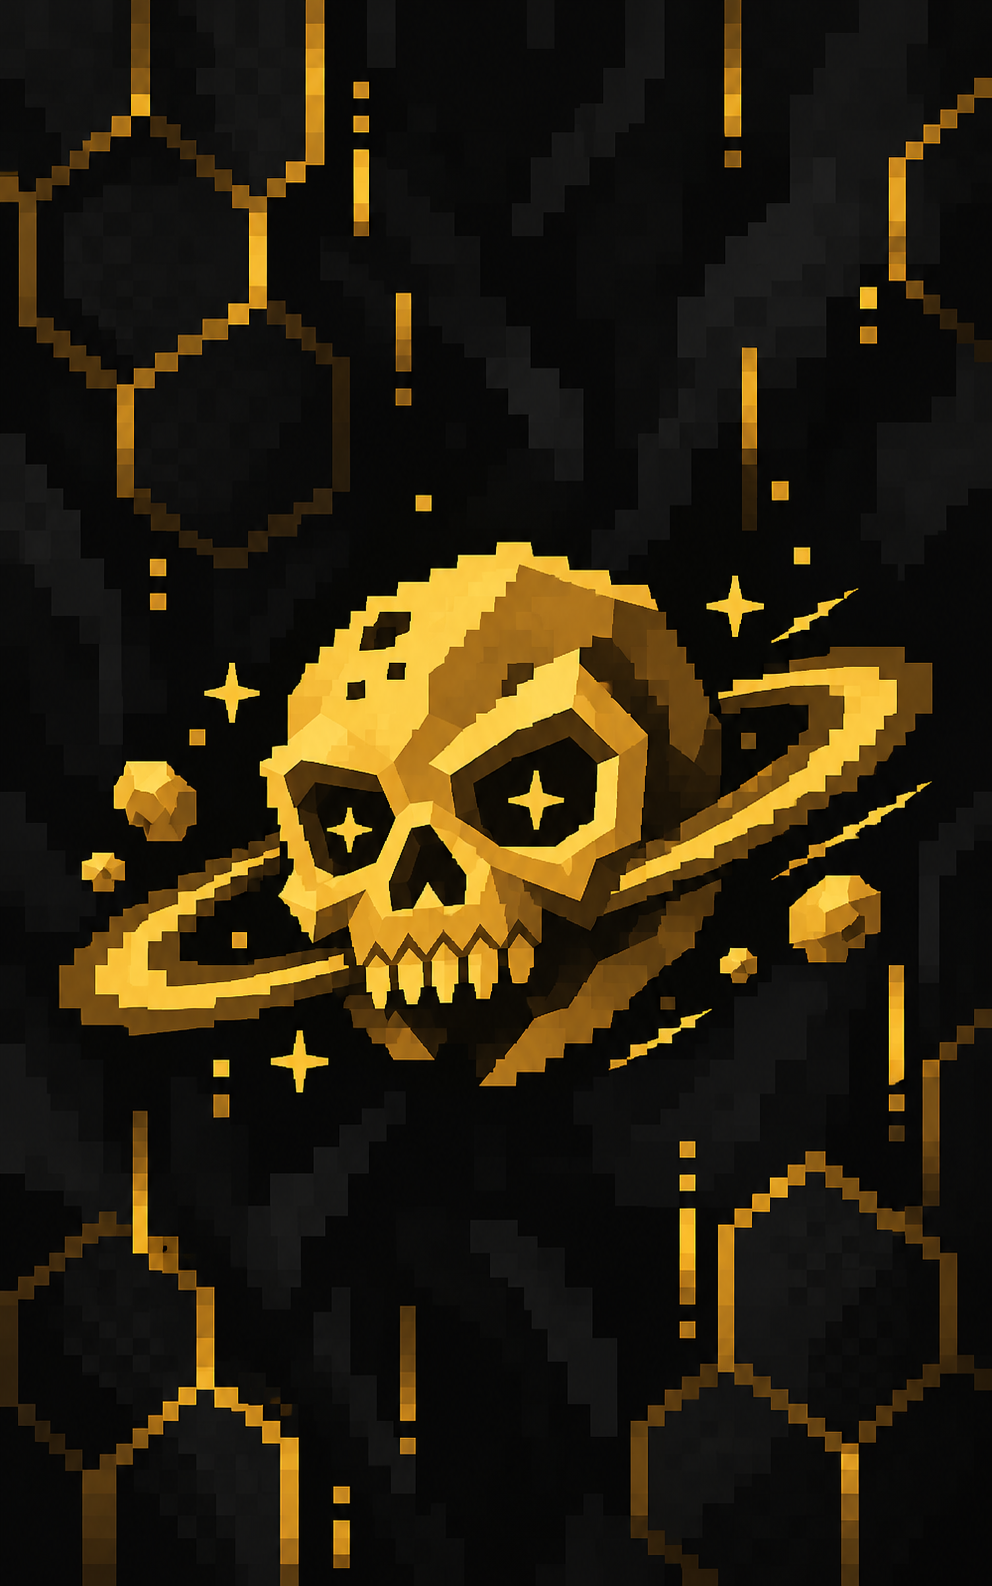
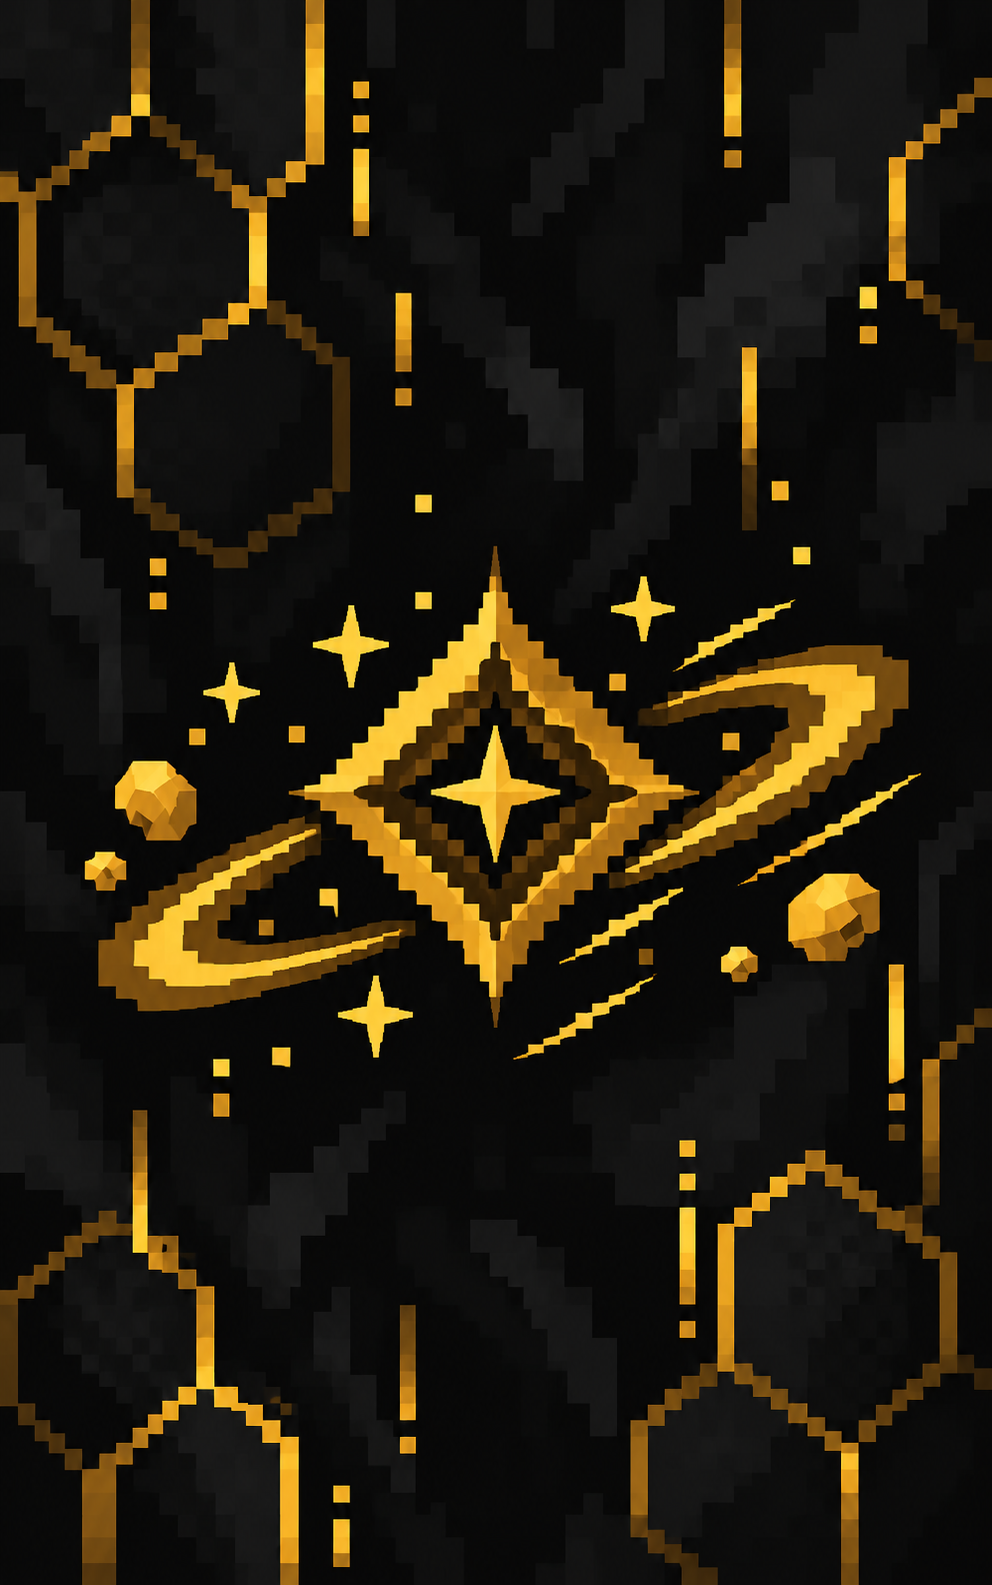
Swap front and back faces of the gold creator cape

diff --git a/assets/creator/README.md b/assets/creator/README.md
@@ -2,8 +2,8 @@
 
 The cape has six independently authored faces:
 
-- `front.png`: the owner's supplied black-and-gold skull design, preserved as received.
-- `back.png`: matching black-and-gold diamond/star reverse, created with built-in image generation using the front as its reference.
+- `front.png`: the matching black-and-gold diamond/star design, facing the player.
+- `back.png`: the owner's supplied black-and-gold skull design, preserved as received, facing outward.
 - `left.png` and `right.png`: gold OWNER block lettering arranged vertically over almost the full 512-pixel edge length.
 - `top.png` and `bottom.png`: black fabric with gold borders and repeating square details.
 
@@ -23,7 +23,9 @@ front/inward `(12,1,10,16)`, back/outward `(1,1,10,16)`,
 sides `(0,1,1,16)` and `(11,1,1,16)`,
 top `(1,0,10,1)`, bottom `(11,0,10,1)`.
 
-## Reverse panel generation prompt
+`cape-preview.png` is an earlier mockup; its FRONT/BACK labels predate the face swap.
+
+## Diamond panel generation prompt
 
 Create only the reverse/back flat texture panel for the Minecraft cape whose
 FRONT is the supplied reference. Portrait rectangle aspect ratio 5:8. Match the
